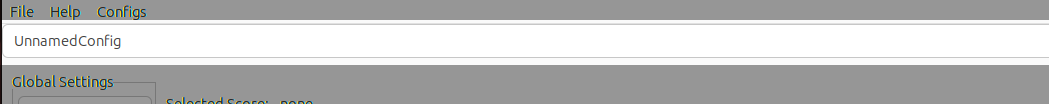
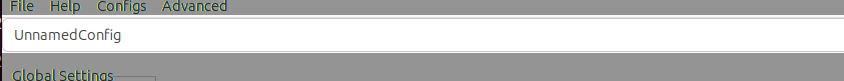
Added 'Advanced' topside menu to the GUI with a 'Settings' window for specifying output columns. Fixed some bugs which prevented new configs from being created and updated guides.

diff --git a/webdocs/mfpg/guides/guiguide.html b/webdocs/mfpg/guides/guiguide.html
@@ -130,16 +130,24 @@
         <p>The top menu has 3 submenus:</p>
         <ul>
         <li><h4>File</h4>
-        <p>The 'file' menu is used for selecting the target score. Currently this can only
+        <p>The 'File' menu is used for selecting the target score. Currently this can only
           be done by locally storing the score and importing it directly to the program.</p>
         </li>
         <li><h4>Help</h4>
-        <p>  The 'help' menu provides direction to helpful resources such as guides and tutorials.</p>
+        <p>  The 'Help' menu provides direction to helpful resources such as guides and tutorials.</p>
         </li>
         <li><h4>Configs</h4>
-        <p>  The 'configs' menu allows for saving, loading, deleting, and creating new configs. The program uses a hidden file called <strong>.mfpg_configs.xml</strong> to store
+        <p>  The 'Configs' menu allows for saving, loading, deleting, and creating new configs. The program uses a hidden file called <strong>.mfpg_configs.xml</strong> to store
           configs in XML format. If no such file is found these options will be
           disabled.</p>
+        </li>
+        <li><h4>Advanced</h4>
+        <p> The 'Advanced' menu has settings and options which are more specialized and allow for more 
+        control of the program. The 'Settings' sub-menu of the 'Advanced' menu currently lets the user
+        decide which output columns should be outputted when using the <i>CSV</i> output format. To 
+        configure this, just add the column header names that you want to include from the output 
+        <i>CSV</i> file in the 'Settings' window. If no headers are selected then all columns will be 
+        outputted.</p>
         </li>
         </ul>
         <a class="anchor" id="Config"></a>

diff --git a/src/gui/MFPG_Frame.cpp b/src/gui/MFPG_Frame.cpp
@@ -17,6 +17,7 @@
 #include <wx/xml/xml.h>
 #include "wx/xrc/xmlres.h"
 #include <wx/stdpaths.h>
+#include <wx/textctrl.h>
 
 #include "conf_cmake.h"
 #include "configs.h"
@@ -78,10 +79,14 @@ MFPG_Frame::MFPG_Frame(bool _use_xrc) : use_xrc(_use_xrc), wxFrame(nullptr, wxID
 	menuConfig->Append(ID_MenuSaveAsConfig, "&Save Config As");
 	menuConfig->Append(ID_MenuDeleteConfig, "&Delete Saved Config");
 
+	wxMenu *menuAdvanced = new wxMenu;
+	menuAdvanced->Append(ID_MenuAdvancedSettings, "&Settings");
+
 	wxMenuBar *menuBar = new wxMenuBar;
 	menuBar->Append(menuFile, "&File");
 	menuBar->Append(menuHelp, "&Help");
 	menuBar->Append(menuConfig, "&Configs");
+	menuBar->Append(menuAdvanced, "&Advanced");
 
 	SetMenuBar( menuBar );
 
@@ -160,6 +165,7 @@ wxBEGIN_EVENT_TABLE(MFPG_Frame, wxFrame)
 	EVT_MENU(ID_MenuSaveConfig, MFPG_Frame::MenuSaveConfig)
 	EVT_MENU(ID_MenuSaveAsConfig, MFPG_Frame::MenuSaveAsConfig)
 	EVT_MENU(ID_MenuDeleteConfig, MFPG_Frame::MenuDeleteConfig)
+	EVT_MENU(ID_MenuAdvancedSettings, MFPG_Frame::MenuAdvancedSettings)
 
 	EVT_CHOICEBOOK_PAGE_CHANGED(ID_CBOOKChange, MFPG_Frame::CBOOKChange)
 	//For the static structures
@@ -185,6 +191,8 @@ wxBEGIN_EVENT_TABLE(MFPG_Frame, wxFrame)
 	EVT_BUTTON(ID_BTSaveastext, MFPG_Frame::BTSaveastext)
 	EVT_BUTTON(ID_BTClearInfo, MFPG_Frame::BTClearInfo)
 	EVT_BUTTON(ID_BTRemoveConfig, MFPG_Frame::BTRemoveConfig)
+	EVT_BUTTON(ID_BTAddColumn, MFPG_Frame::BTAddColumn)
+	EVT_BUTTON(ID_BTRemoveColumn, MFPG_Frame::BTRemoveColumn)
 	//For XRC file
 	EVT_NOTEBOOK_PAGE_CHANGED(XRCID("ID_NBOOKChange"), MFPG_Frame::NBOOKChange)
 
@@ -217,6 +225,56 @@ void MFPG_Frame::MenuExit(wxCommandEvent& event) {
 void MFPG_Frame::MenuGuide(wxCommandEvent& event) {
 	wxLaunchDefaultBrowser(wxString("https://rasmusthorsson.github.io/mfpg/"), 0);
 }
+
+void MFPG_Frame::MenuAdvancedSettings(wxCommandEvent& event) {
+	wxFrame *w = new wxFrame(this, wxID_ANY, "Advanced Settings", wxDefaultPosition, wxDefaultSize,
+		wxDEFAULT_FRAME_STYLE, wxFrameNameStr);
+	wxNotebook *advanced_book = new wxNotebook(w, wxID_ANY, wxPoint(10, 10), wxDefaultSize, wxNB_TOP,
+		"NB_SETTINGS");
+	wxPanel *output_panel = new wxPanel(advanced_book, wxID_ANY, wxPoint(10, 10), wxDefaultSize, 
+		wxTAB_TRAVERSAL, "ADV_OUTPUT_PANEL");
+	advanced_book->AddPage(output_panel, "Output Settings", true, -1);
+	wxStaticText *out_cols_label = new wxStaticText(output_panel, wxID_ANY, "Selected Output Columns:", 
+		wxPoint(20, 20), wxDefaultSize, wxALIGN_LEFT, wxStaticTextNameStr);
+	out_cols_text = new wxStaticText(output_panel, wxID_ANY, "", wxPoint(20, 45), wxSize(160, 20), 
+		wxALIGN_LEFT, wxStaticTextNameStr);
+	UpdateCols();
+	add_col_ctrl = new wxTextCtrl(output_panel, wxID_ANY, "", wxPoint(20, 100), 
+		wxSize(200, 20), 0, wxDefaultValidator, "ADD_COL_CTRL"); 
+	add_col_btn = new wxButton(output_panel, ID_BTAddColumn, "Add Column", wxPoint(240, 90),
+			wxSize(120, 20), 0, wxDefaultValidator, "ADD_COL_BTN");
+	rem_col_btn = new wxButton(output_panel, ID_BTRemoveColumn, "Remove Column", wxPoint(240, 115),
+			wxSize(120, 20), 0, wxDefaultValidator, "ADD_COL_BTN");
+	w->Show(true);
+}
+
+void MFPG_Frame::BTAddColumn(wxCommandEvent& event) {
+	output_columns.insert(std::string(add_col_ctrl->GetLineText(0)));
+	add_col_ctrl->Clear();
+	UpdateCols();
+}
+
+void MFPG_Frame::BTRemoveColumn(wxCommandEvent& event) {
+	output_columns.erase(std::string(add_col_ctrl->GetLineText(0)));
+	add_col_ctrl->Clear();
+	UpdateCols();
+}
+
+void MFPG_Frame::UpdateCols() {
+	std::string temp_text = "";
+	if (output_columns.size() > 0) {
+		for (std::string col : output_columns) {
+			if (col != "") {
+				temp_text += col + " | ";
+			}
+		}
+	} else {
+		temp_text = "All";
+	}
+	out_cols_text->SetLabel(wxString(temp_text));
+	out_cols_text->Wrap(300);
+}
+
 void MFPG_Frame::MenuAbout(wxCommandEvent& event) {
 	wxMessageBox("A tool for generating fingering position for scores played on bowed string instruments  by using customizable configurations which allow users to generate their preferred fingerings.", 
 			"About MFPG", wxOK|wxICON_INFORMATION);
@@ -244,10 +302,20 @@ void MFPG_Frame::MenuNewConfig(wxCommandEvent& event) {
 
 	if (conf_name_dialog->ShowModal() == wxID_OK) {
 		new_conf = conf_name_dialog->GetValue();
-		MFPG_Panel *config_panel = new MFPG_Panel(config_book);
-		config_panel->score_selected_text->SetLabel(score_path);
-		config_panel->score_selected_text->Refresh();
-		config_book->AddPage(config_panel, new_conf, true, 0);
+		MFPG_Panel *config_panel;
+		if (use_xrc) {
+			config_panel = new MFPG_Panel();	
+			wxXmlResource::Get()->LoadPanel(config_panel, config_book, "MFPG_Panel_XRC");
+		} else {
+			config_panel = new MFPG_Panel(config_book);	
+		}
+		config_panel->InitPanel(use_xrc);
+		if (!score_path) {
+		} else {
+			config_panel->score_selected_text->SetLabel(score_path);
+			config_panel->score_selected_text->Refresh();
+		}
+		config_book->AddPage(config_panel, new_conf, true, -1);
 		current_panel = config_panel;
 	}
 }
@@ -631,7 +699,7 @@ void MFPG_Frame::SetInstrument(Settings s) {
 }
 
 void MFPG_Frame::SetInstrumentName(wxString s) {
-	current_panel->instrument_text->SetLabel(s);
+	current_panel->instrument_text->SetValue(s);
 }
 
 void MFPG_Frame::CBActionSet(wxCommandEvent& event) {
@@ -1017,7 +1085,6 @@ void MFPG_Frame::Generate() {
 	using namespace mx::api;
 	NoteList note_list;
 	INSTRUMENT_NAME = current_panel->instrument_text->GetLineText(0);
-	std::set<std::string> csv_out_col({});
 
 	try {
 		auto& mgr = DocumentManager::getInstance();
@@ -1315,9 +1382,9 @@ void MFPG_Frame::Generate() {
 		out_path = current_panel->FilePath_Output;
 		out.open(out_path, std::ofstream::binary);
 		if (output_type == 'i') {
-			configs::writeOutput(out, solver_i, use_csv, csv_out_col);
+			configs::writeOutput(out, solver_i, use_csv, output_columns);
 		} else if (output_type == 'd') {
-			configs::writeOutput(out, solver_d, use_csv, csv_out_col);
+			configs::writeOutput(out, solver_d, use_csv, output_columns);
 		}
 		out.close();
 		current_panel->output_text->LoadFile(current_panel->FilePath_Output);
@@ -1325,9 +1392,9 @@ void MFPG_Frame::Generate() {
 		std::ostream *to_out = new std::ostream{nullptr};
 		wxStreamToTextRedirector out_redirect(current_panel->output_text, to_out);
 		if (output_type == 'i') {
-			configs::writeOutput(*to_out, solver_i, use_csv, csv_out_col);
+			configs::writeOutput(*to_out, solver_i, use_csv, output_columns);
 		} else if (output_type == 'd') {
-			configs::writeOutput(*to_out, solver_d, use_csv, csv_out_col);
+			configs::writeOutput(*to_out, solver_d, use_csv, output_columns);
 		}
 	}
 }

diff --git a/src/gui/MFPG_Frame.h b/src/gui/MFPG_Frame.h
@@ -2,6 +2,8 @@
 #define MFPG_FRAME_H
 #include "MFPG_Choicebook.h"
 
+#include <set>
+
 #include "wx/wx.h"
 #include "wx/filepicker.h"
 #include "wx/xml/xml.h"
@@ -47,6 +49,7 @@ class MFPG_Frame : public wxFrame {
 		void MenuExit(wxCommandEvent&);
 		void MenuAbout(wxCommandEvent&);
 		void MenuGuide(wxCommandEvent&);
+		void MenuAdvancedSettings(wxCommandEvent&);
 		//Books
 		void CBOOKChange(wxBookCtrlEvent&);
 		void NBOOKChange(wxBookCtrlEvent&);
@@ -71,15 +74,23 @@ class MFPG_Frame : public wxFrame {
 		void BTSavetext(wxCommandEvent&);
 		void BTSaveastext(wxCommandEvent&);
 		void BTClearInfo(wxCommandEvent&);
+		void BTAddColumn(wxCommandEvent&);
+		void BTRemoveColumn(wxCommandEvent&);
 
 		//Programwide paths
 		wxString score_path;
 		wxString configs_path;
+		std::set<std::string> output_columns;
 
 		//Frame book
 		MFPG_Choicebook *config_book;
 		//Keeping track of which panel is currently active
 		MFPG_Panel *current_panel;
+		//Output Columns in advanced settings
+		wxStaticText *out_cols_text;
+		wxTextCtrl *add_col_ctrl;
+		wxButton *add_col_btn;
+		wxButton *rem_col_btn;
 
 		//Functions to allow setting the settings while also activating the correct buttons
 		//in the gui from inside the code.
@@ -100,5 +111,9 @@ class MFPG_Frame : public wxFrame {
 		//New config must be attached to existing document or explicitly deleted
 		wxXmlNode *NewConfig(wxString);
 		void LoadConfig(wxString);
+
+		//Misc Helpers
+		//Updates output columns in the advanced settings
+		void UpdateCols();
 };
 #endif

diff --git a/src/gui/Gui_Settings.h b/src/gui/Gui_Settings.h
@@ -12,6 +12,7 @@ enum {
 	ID_MenuSaveAsConfig = 105,
 	ID_MenuDeleteConfig = 106,
 	ID_MenuGuide = 107,
+	ID_MenuAdvancedSettings = 108,
 
 	ID_CBOOKChange = 201,
 	ID_NBOOKChange = 202,
@@ -35,7 +36,9 @@ enum {
 	ID_BTSavetext = 602,
 	ID_BTSaveastext = 603,
 	ID_BTClearInfo = 604,
-	ID_BTRemoveConfig = 605
+	ID_BTRemoveConfig = 605,
+	ID_BTAddColumn = 606,
+	ID_BTRemoveColumn = 607
 };
 
 //Enums and arrays used for converting settings in the string format in the XML configs file to Enums in 
